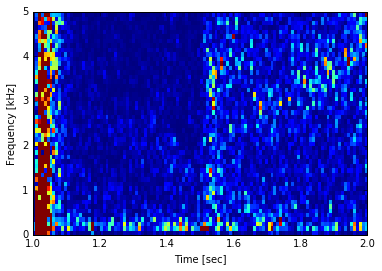
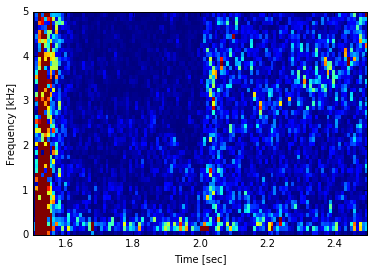
spectrogramの時間軸を修正　図の解像度を上げたほうが良い？

diff --git a/conf.py b/conf.py
@@ -55,9 +55,9 @@ author = 'Naoki Kenmochi'
 # built documents.
 #
 # The short X.Y version.
-version = '0.1.0'
+version = '0.2.0'
 # The full version, including alpha/beta/rc tags.
-release = '0.1.0'
+release = '0.2.0'
 
 # The language for content autogenerated by Sphinx. Refer to documentation
 # for a list of supported languages.

diff --git a/numpy_scipy.rst b/numpy_scipy.rst
@@ -198,8 +198,8 @@ SciPyを用いたデータ解析
     
     import scipy.signal as sig
     f, t, Pxx = sig.spectrogram(IF[:, 0], fs=1/sampling_time, window='hamming', nperseg=250)
-    plt.pcolormesh(t, f, np.abs(Pxx), vmin=0, vmax=1e-2)
-    plt.xlim(1.0, 2.0)
+    plt.pcolormesh(t+0.5, f, np.abs(Pxx), vmin=0, vmax=1e-2)
+    plt.xlim(1.5, 2.5)
     plt.xlabel('Time [sec]')
     plt.ylabel('Frequency [Hz]')
     plt.show()
